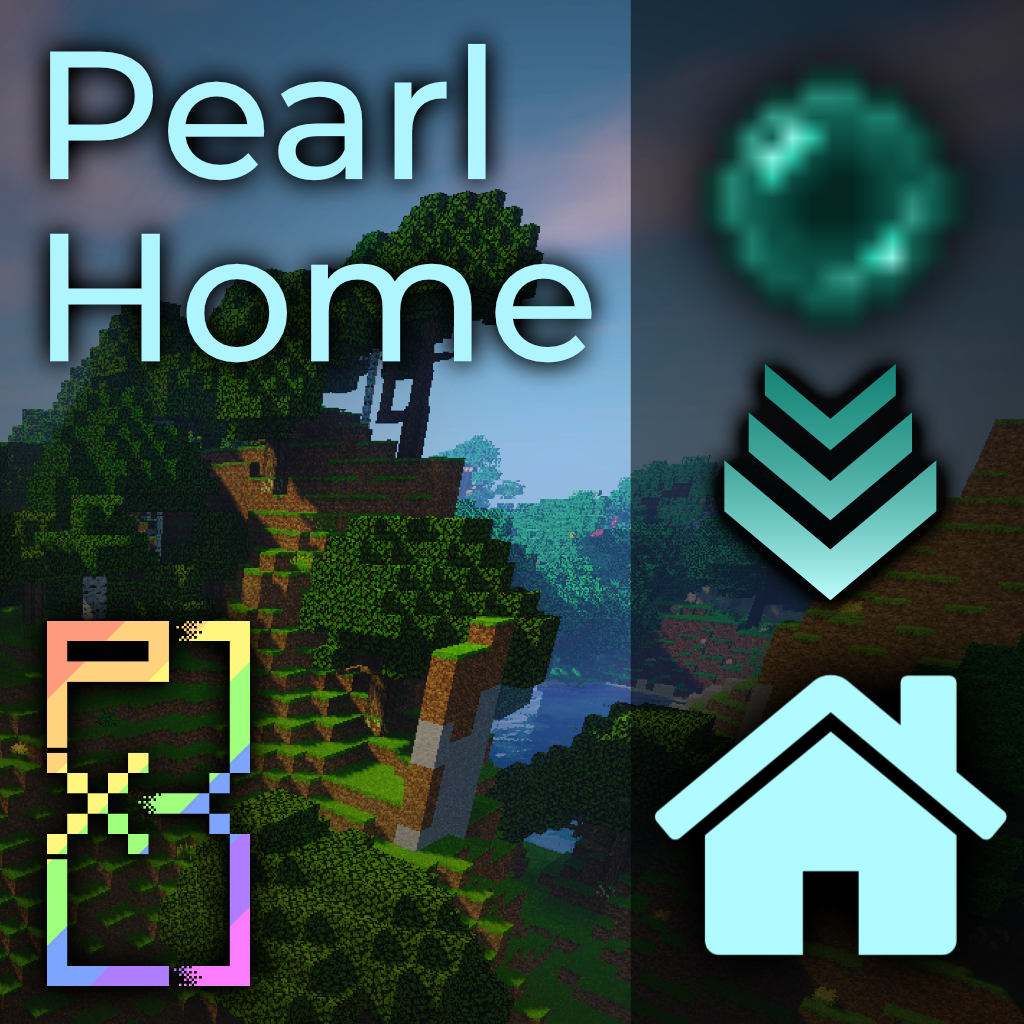
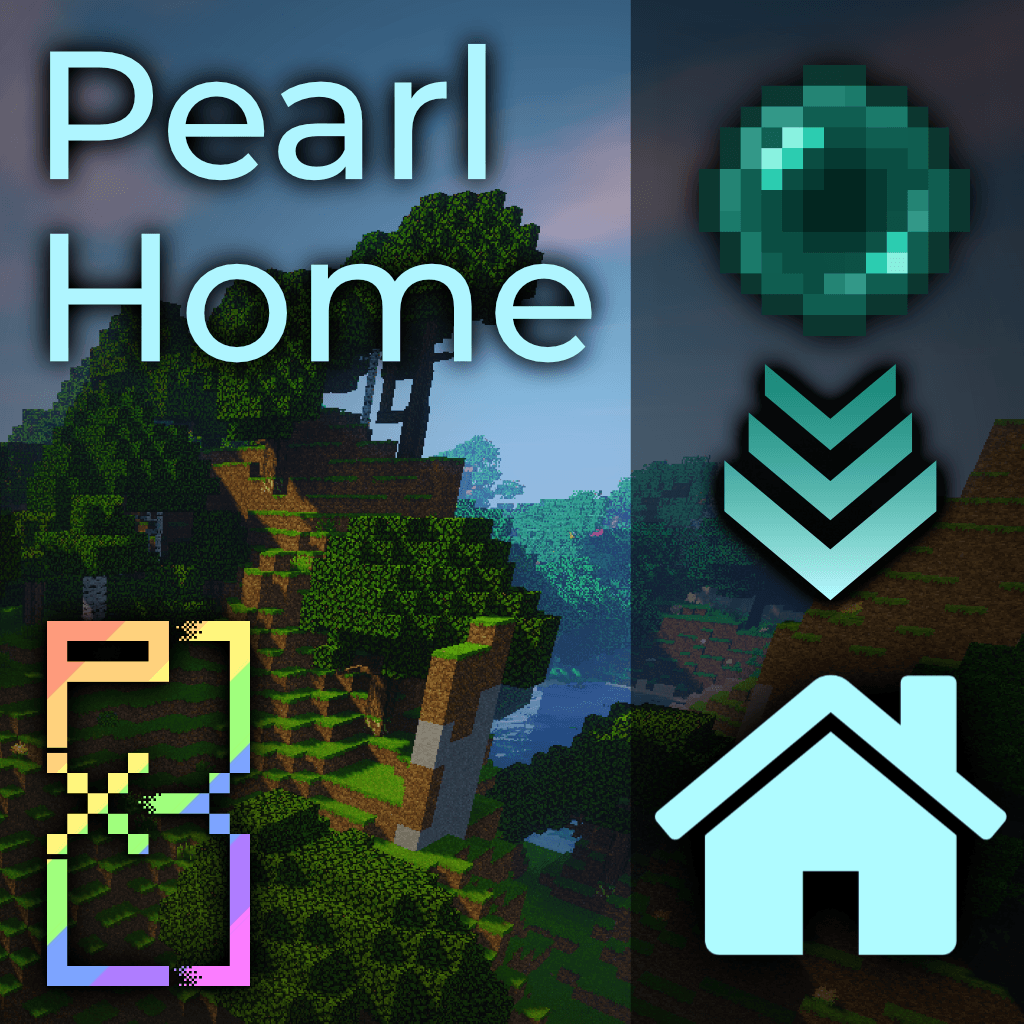
Small update
Optimized mod logo
Added teleport to spawn on sneak or in water

Changed region(s): [[0.6875, 0.0625, 0.8438, 0.2812], [0.7812, 0.1562, 0.9375, 0.3125], [0.8438, 0.0938, 0.9062, 0.1562]]

diff --git a/src/main/java/network/pxl8/pearlhome/config/Conf.java b/src/main/java/network/pxl8/pearlhome/config/Conf.java
@@ -1,6 +1,5 @@
 package network.pxl8.pearlhome.config;
 
-import com.sun.org.apache.xpath.internal.operations.Bool;
 import net.minecraftforge.common.config.Config;
 import net.minecraftforge.common.config.ConfigManager;
 import net.minecraftforge.fml.client.event.ConfigChangedEvent;
@@ -31,6 +30,11 @@ public class Conf {
         public Boolean SAFE_TELEPORT = false;
         @Config.Comment({"Will force the player to spawn on the top most block of the world spawn point", "Can disable this if you know your spawn point is safe, otherwise players may spawn underground"})
         public Boolean SPAWN_ON_SURFACE = true;
+
+        @Config.Comment({"Will force teleport to go to world spawn instead of bed, useful if you have a spawn town or trading post", "Will not work if REQUIRE_SNEAKING is toggled"})
+        public Boolean TELEPORT_SPAWN_ON_SNEAK = false;
+        @Config.Comment({"Will force teleport to go to world spawn instead of bed, useful if you have a spawn town or trading post", "Will not work if REQUIRE_NOT_IN_WATER is toggled"})
+        public Boolean TELEPORT_SPAWN_IN_WATER = false;
     }
 
     public static class MiscConf {
@@ -38,7 +42,7 @@ public class Conf {
         public Boolean ENABLE_TIPS = true;
         @Config.Comment({"Will send localised tips in the players language", "REQUIRES the mod to be installed client side and lang files in the correct language to exist"})
         public Boolean ENABLE_LOCALISED_TIPS = false;
-        @Config.Comment({"Will force set the players spawn point whenever they click on a bed, regardless if its day or night", "This will permanently set spawn and breaking the bed will not reset it"})
+        @Config.Comment({"Will force set the players spawn point whenever they click on a bed, regardless if its day or night", "This will permanently set spawn until another spawn point is set, breaking the bed will not reset it"})
         public Boolean FORCE_SET_HOME = false;
         @Config.Comment({"Sends a message tip with the coords of the set spawnpoint, REQUIRES client to have the mod", "Otherwise will just send a generic set spawn point message"})
         public Boolean FORCE_SET_HOME_TIP_INFO = false;

diff --git a/src/main/java/network/pxl8/pearlhome/event/TeleportEvent.java b/src/main/java/network/pxl8/pearlhome/event/TeleportEvent.java
@@ -87,6 +87,9 @@ public class TeleportEvent {
             try { home = EntityPlayer.getBedSpawnLocation(targetWorld, player.getBedLocation(targetDim), player.isSpawnForced(targetDim));
             } catch (NullPointerException e) {}
 
+            if(player.isSneaking() && Conf.tp_config.TELEPORT_SPAWN_ON_SNEAK) { home = null; }
+            if(player.isInWater() && Conf.tp_config.TELEPORT_SPAWN_IN_WATER) { home = null; }
+
             if(home != null) {
                 if(currentDim != targetDim) {
                     server.getPlayerList().transferPlayerToDimension((EntityPlayerMP) player, targetDim, new PearlHomeTeleporter(worldServer, home.getX(), home.getY(), home.getZ()));

diff --git a/src/main/java/network/pxl8/pearlhome/PearlHome.java b/src/main/java/network/pxl8/pearlhome/PearlHome.java
@@ -8,7 +8,7 @@ import net.minecraftforge.fml.common.event.FMLPreInitializationEvent;
 import network.pxl8.pearlhome.lib.LibMeta;
 import network.pxl8.pearlhome.proxy.Proxy;
 
-@Mod(modid = LibMeta.MOD_ID, version = LibMeta.VERSION)
+@Mod(modid = LibMeta.MOD_ID, version = LibMeta.VERSION, acceptableRemoteVersions = "*")
 public class PearlHome {
     @Mod.Instance
     public static PearlHome instance;

diff --git a/src/main/java/network/pxl8/pearlhome/lib/LibMeta.java b/src/main/java/network/pxl8/pearlhome/lib/LibMeta.java
@@ -5,7 +5,7 @@ import org.apache.logging.log4j.Logger;
 
 public class LibMeta {
     public static final String MOD_ID = "pearlhome";
-    public static final String VERSION = "1.0.0";
+    public static final String VERSION = "1.0.1";
 
     public static final Logger LOG = LogManager.getLogger(MOD_ID);
 
